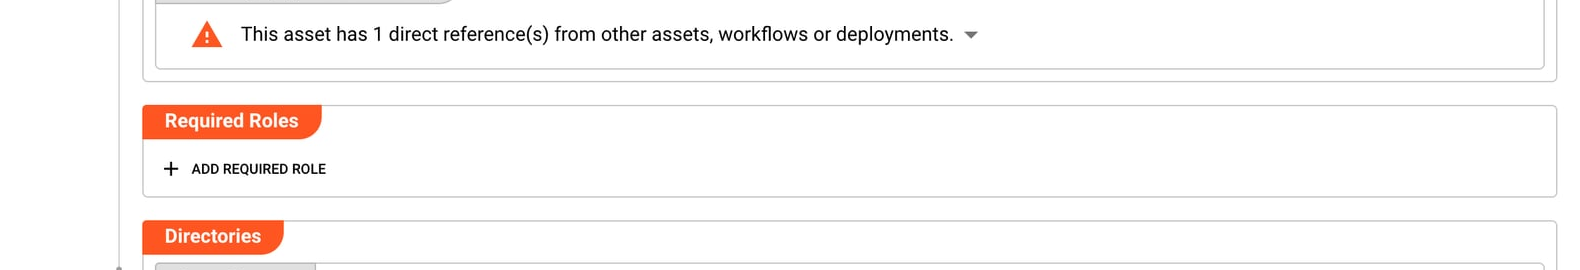
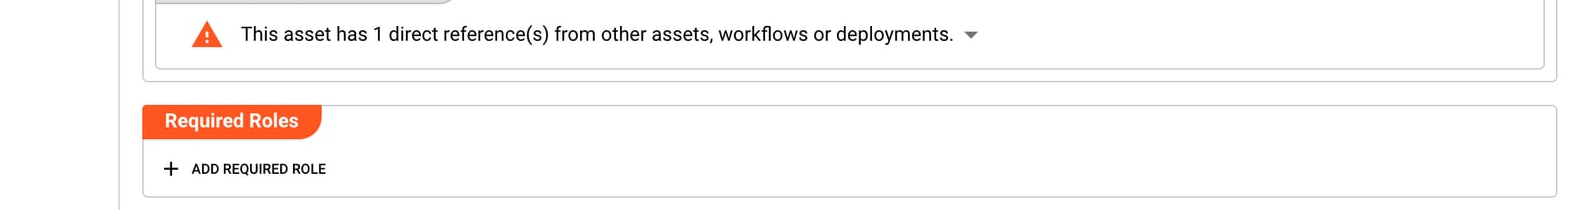
docs: replace File System Sink screenshots with focused, well-cropped versions
6 targeted screenshots covering each form section:
- sink-file-name-description-FINAL: Name & Description + Sink description
- sink-file-required-roles-FINAL: Required Roles section
- sink-file-directories-FINAL: Directories header with sub-tabs
- sink-file-output-directory-FINAL: Posix attrs, prefix, suffix, dropdown
- sink-file-housekeeping-FINAL: Housekeeping settings + Temp Directory
- sink-file-other-settings-FINAL: Other Settings section

diff --git a/docs/03-assets/sinks/asset-sink-file.md b/docs/03-assets/sinks/asset-sink-file.md
@@ -28,7 +28,7 @@ None — this sink writes directly to the local file system and does not require
 
 ### Name & Description
 
-![Name & Description (File System Sink)](./.asset-sink-file_images/sink-file-name-description.png "Name & Description (File System Sink)")
+![Name & Description (File System Sink)](./.asset-sink-file_images/sink-file-name-description-FINAL.png "Name & Description (File System Sink)")
 
 * **Sink Name** — A descriptive name for this sink asset.
 * **Sink description** — Optional description of what this sink is used for.
@@ -39,13 +39,17 @@ You can expand **Asset usage** to see which other assets, workflows, or deployme
 
 Optionally specify which roles are required to use this sink. Click **Add required role** to add role requirements.
 
+![Required Roles](./.asset-sink-file_images/sink-file-required-roles-FINAL.png "Required Roles")
+
+![Directories](./.asset-sink-file_images/sink-file-directories-FINAL.png "Directories")
+
 ### Directories
 
 The Directories section defines where files are written and how they are handled during processing.
 
 #### Output Directory
 
-![Output Directory](./.asset-sink-file_images/sink-file-output-directory.png "Output Directory")
+![Output Directory](./.asset-sink-file_images/sink-file-output-directory-FINAL.png "Output Directory")
 
 * **Output Directory** — The directory to write output files to. The path can be:
   * **Absolute** — e.g., `/tmp/layline/output` or `C:\layline\output`
@@ -74,7 +78,7 @@ The Directories section defines where files are written and how they are handled
   * **Delete after** — The age threshold for files to delete (number + units).
   * **Units** — The time unit (days, hours, or minutes).
   * **Execute housekeeping at** — A cron expression defining when housekeeping runs. Click the calendar icon to open the cron expression editor.
-![Housekeeping and Temporary Directory](./.asset-sink-file_images/sink-file-housekeeping-tempdir.png "Housekeeping and Temporary Directory")
+![Housekeeping and Temporary Directory](./.asset-sink-file_images/sink-file-housekeeping-FINAL.png "Housekeeping and Temporary Directory")
 
 #### Temporary Directory
 
@@ -100,7 +104,7 @@ This section appears only when **"Move the existing output file to the archive d
   * **Rename existing archive and add a numerical version counter as suffix** — Add a number suffix.
   * **Rename existing archive and add the current timestamp as suffix** — Add a timestamp suffix.
 
-![Other Settings](./.asset-sink-file_images/sink-file-other-settings.png "Other Settings")
+![Other Settings](./.asset-sink-file_images/sink-file-other-settings-FINAL.png "Other Settings")
 ### Other Settings
 
 * **Delay post processing steps (move, delete) [ms]** — Delay in milliseconds before post-processing steps (moving temp file to output, deleting from temp). Useful for "sensitive" file systems that need time to settle.
